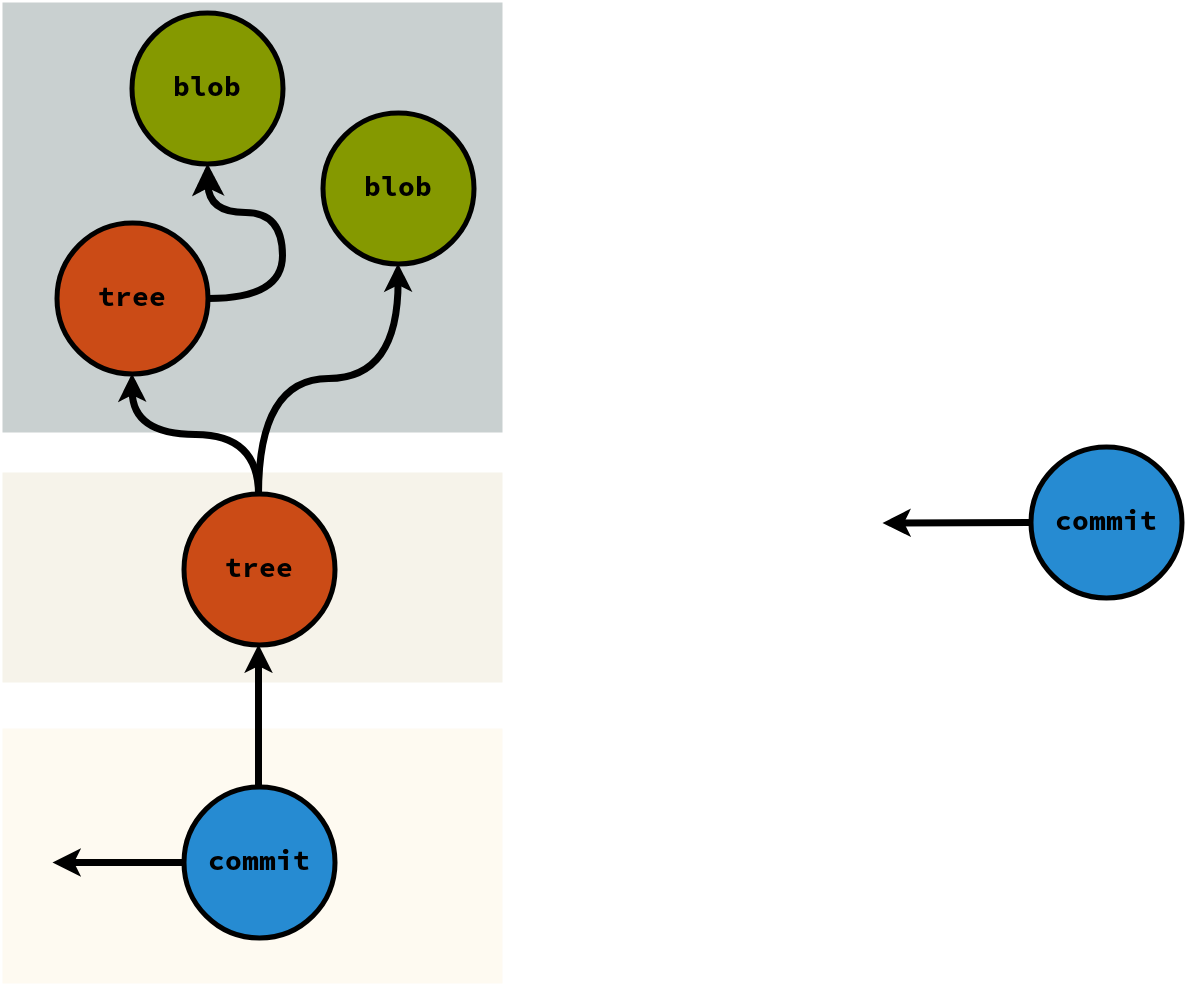
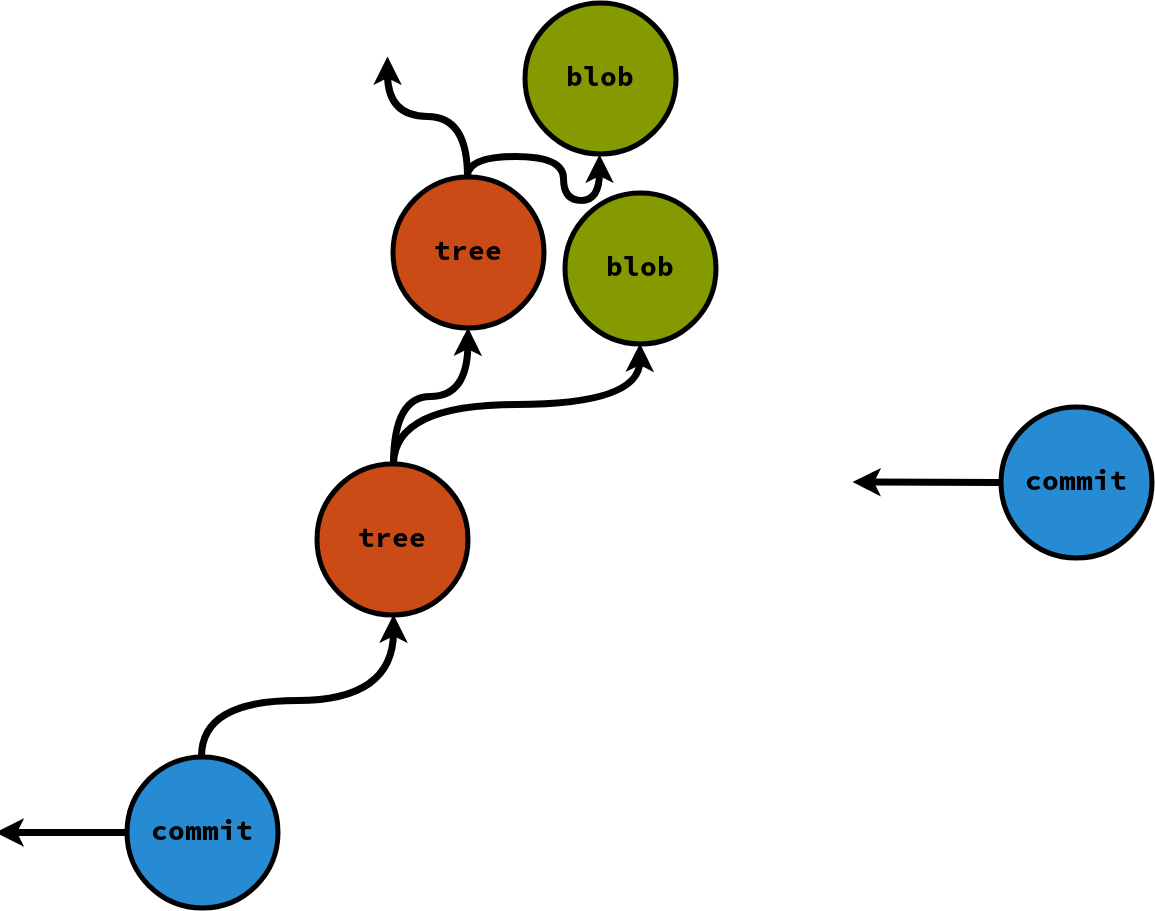
Improve notation slide

diff --git a/think-like-git.md b/think-like-git.md
@@ -405,16 +405,23 @@ git cat-file -p 6291a11c4a94b59c5737009ad0c965cab855736b
 
 
 ### What we want
-- Name important points in time
+- Marking special points in time
 - Group related changes
 - Operate on thoose groups
 
 
-## Before we begin
+### Before we begin
 <img src="/img/commit-state.png" style="width: 70%; margin: 0; box-shadow: none; border: 0; background: transparent">
 
 
+### Marking special points in time
+<!-- zdjęcie jakiejś historycznej bitwy -->
+<!-- tagowanie -->
+<!-- pokazówka, że tagiem można jako commitem - np. git show -->
+
 <!-- tu skończyłem -->
+
+
 ### HEAD
 
 <img src="img/detached_head.jpg" style="width: 50%">
